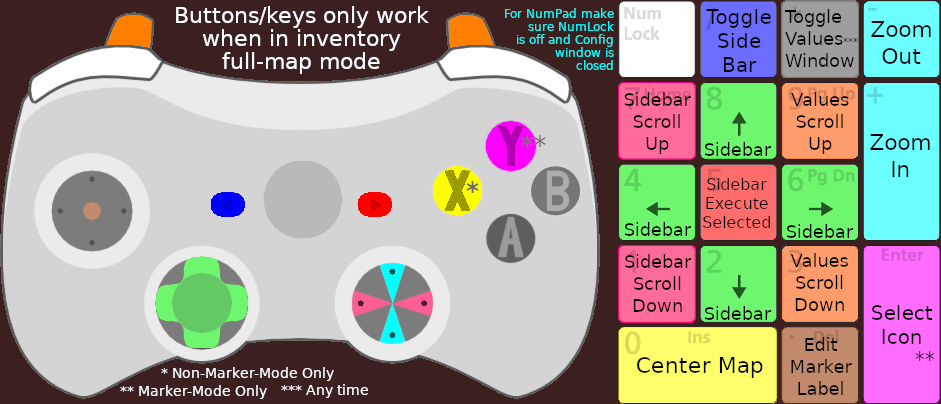
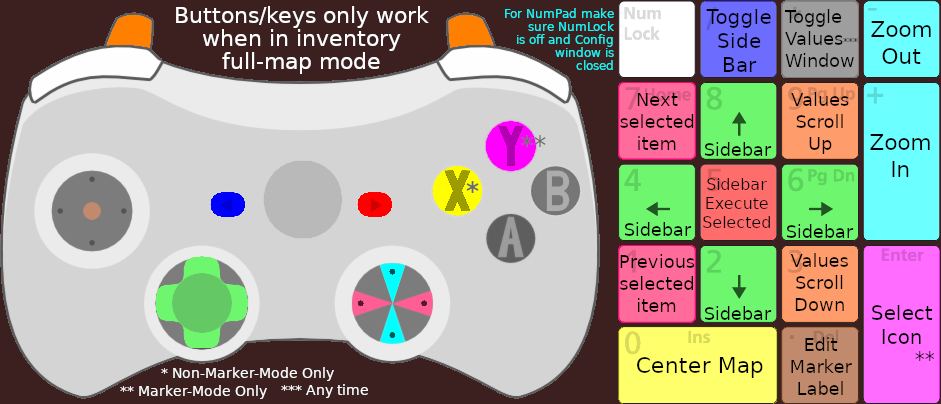
Added item stack selection
Added item stack selection:
	Files: MapControl.cs, Config.cs
	Affects: SideBar.cs, HelpWindow.cs, KeyMappings.png

HelpWindow.cs: Made internal instead of private since I need to find out if it’s being displayed

Changed region(s): [[0.6472, 0.6238, 0.7396, 0.7723], [0.6472, 0.2376, 0.7396, 0.3861]]

diff --git a/PharloomAtlas/MapControl.cs b/PharloomAtlas/MapControl.cs
@@ -1,5 +1,6 @@
 using SilkDev;
 using SilkDev.DevInput.Mouse;
+using System.Collections.Generic;
 using System.Linq;
 using System.Reflection;
 using System.Runtime.CompilerServices;
@@ -26,6 +27,7 @@ public class MapControl : SilkDev.Windows.Window
 	public bool IsMapOpened		=> MapState!=MapStateEnum.Closed;
 
 	//Private members
+	private static readonly Stack<Item> MoveBackStack=[], MoveForwardStack=[];
 	internal MarkerLabels MarkerLabels=null!;
 	private readonly HornetIconAnimators HornetIconAnimators=new();
 	private bool SideBarWasOpen=false, SearchWasOpen=false;
@@ -222,7 +224,7 @@ public class MapControl : SilkDev.Windows.Window
 
 	//Find the closest vector to the map position within a radius, returning its item
 	public record struct VItem<T>(Vector2 Pos, T Item) where T: class;
-	public T? FindClosestVector<T>(System.Collections.Generic.IEnumerable<VItem<T>> VList, Vector2 PosOnMap, float ItemRadius, float SelectionRadius) where T: class
+	public T? FindClosestVector<T>(IEnumerable<VItem<T>> VList, Vector2 PosOnMap, float ItemRadius, float SelectionRadius) where T: class
 	{
 		//Find the closest item
 		VItem<T> ClosestVec=default;
@@ -265,6 +267,13 @@ public class MapControl : SilkDev.Windows.Window
 		(false, Direction	.Up					,  1),
 		(false, Direction	.Down				, -1)
 	);
+	private readonly SilkDev.DevInput.InputRepeatDelay<bool> SelectItemStackCheck=new(.25f,
+		(Conf			.Shortcut_SelStack_Next	, true ),
+		(Conf			.Shortcut_SelStack_Prev	, false),
+		(false,Direction.Left					, false),
+		(false,Direction.Right					, true )
+	);
+
 	protected override void OnUpdate()
 	{
 		//Toggling sidebar and centering
@@ -291,6 +300,24 @@ public class MapControl : SilkDev.Windows.Window
 		//Zooming
 		if(ZoomCheck.IsReadyValueVType is float ZoomAmount)
 			ZoomI(ZoomAmount);
+
+		//Item selection stack
+		if(!SideBar.HelpWindow.HasAnyOpen && SelectItemStackCheck.IsReadyValueVType is bool StackDirectionForward)
+			if(StackDirectionForward && MoveForwardStack.Count>0) {
+				Item NewItem=MoveForwardStack.Pop();
+				MoveBackStack.Push(NewItem);
+				SelectAndCenterItemI(NewItem.ID, true);
+			} else if(
+				   !StackDirectionForward
+				&& (
+					   MoveBackStack.Count>1
+					|| (MoveBackStack.Count==1 && SelectedItem==null)
+				)
+			) {
+				if(SelectedItem!=null)
+					MoveForwardStack.Push(MoveBackStack.Pop());
+				SelectAndCenterItemI(MoveBackStack.Peek().ID, true);
+			}
 
 		HornetIconAnimators.Run();
 	}
@@ -387,7 +414,7 @@ public class MapControl : SilkDev.Windows.Window
 
 	//Selects a new item
 	public  void SelectItem (Item? NewSelectItem) => Misc.IFF(GameMap!=null, () => SelectItemI(NewSelectItem));
-	private void SelectItemI(Item? NewSelectItem)
+	private void SelectItemI(Item? NewSelectItem, bool IsStackMove=false)
 	{
 		//If the same item, nothing to do
 		if(SelectedItem==NewSelectItem)
@@ -403,15 +430,21 @@ public class MapControl : SilkDev.Windows.Window
 		SelectedItem=NewSelectItem;
 		SideBar.OnNewIconSelected();
 		SideBar.Visible=true;
+
+		//Add to stack
+		if(!IsStackMove && NewSelectItem!=null) {
+			MoveBackStack.Push(NewSelectItem);
+			MoveForwardStack.Clear();
+		}
 	}
 
 	//Center over and select an item by its ID
 	public   void SelectAndCenterItem (int ItemID) => Misc.IFF(GameMap!=null, () => SelectAndCenterItemI(ItemID));
-	internal void SelectAndCenterItemI(int ItemID)
+	internal void SelectAndCenterItemI(int ItemID, bool IsStackMove=false)
 	{
 		Item I=DS.Items.Get(ItemID) ?? throw new System.ArgumentOutOfRangeException("ItemID");
 		MapPos=I.Pos;
-		SelectItemI(I);
+		SelectItemI(I, IsStackMove);
 		I.MapIcon?.IconGO?.SetActive(true); //Force the icon to be visible
 	}
 

diff --git a/PharloomAtlas/HelpWindow.cs b/PharloomAtlas/HelpWindow.cs
@@ -11,7 +11,7 @@ namespace PharloomAtlas;
 public partial class SideBar
 {
 	//Displays a help message
-	private class HelpWindow : SilkDev.Windows.PopupMessage
+	internal class HelpWindow : SilkDev.Windows.PopupMessage
 	{
 		private static int NumOpen=0;
 		private static Texture2D? ControllerLayout;
@@ -103,7 +103,7 @@ public partial class SideBar
 
 			//Draw the message
 			ScrollPosition=GUILayout.BeginScrollView(ScrollPosition, ScrollStyle, GUILayout.ExpandWidth(true), GUILayout.ExpandHeight(true));
-			GUILayout.Label($"<color=#FF6C9C><size=20>{TSan("Scroll this window with Sidebar Scroll Up/Down")}</size></color>", CenterRichText);
+			GUILayout.Label($"<color=#FF6C9C><size=20>{TSan("Scroll this window with selected-icon-stack next/previous")}</size></color>", CenterRichText);
 			GUILayout.Label(Message, LabelStyle);
 			GUILayout.EndScrollView();
 
@@ -113,8 +113,8 @@ public partial class SideBar
 		//Scroll up/down the help info
 		private const float MoreOftenMultiplier=4;
 		private readonly SilkDev.DevInput.InputRepeatDelay<int> WinScrollCheck=new(.075f/MoreOftenMultiplier,
-			(Config.C		.Shortcut_SB_ScrollUp	, -1),
-			(Config.C		.Shortcut_SB_ScrollDown	,  1),
+			(Config.C		.Shortcut_SelStack_Next , -1),
+			(Config.C		.Shortcut_SelStack_Prev ,  1),
 			(false,Direction.Left					, -1),
 			(false,Direction.Right					,  1)
 		);
@@ -135,8 +135,8 @@ public partial class SideBar
 
 		//Do not close from scroll buttons
 		protected override bool BlockClose =>
-			   Config.C.Shortcut_SB_ScrollUp.IsPressed()
-			|| Config.C.Shortcut_SB_ScrollDown.IsPressed()
+			   Config.C.Shortcut_SelStack_Next.IsPressed()
+			|| Config.C.Shortcut_SelStack_Prev.IsPressed()
 			|| ActiveDevice.RightStick.HasChanged;
 
 		//Translation

diff --git a/PharloomAtlas/SideBar.cs b/PharloomAtlas/SideBar.cs
@@ -214,7 +214,7 @@ public partial class SideBar : Window
 
 	//Handle key presses
 	private static InControl.InputDevice AD => ActiveDevice;
-	public  enum KRType { X=0, Y, Scroll, NUM_ENUMS }
+	public  enum KRType { X=0, Y, NUM_ENUMS }
 	private record struct KeyResults(KRType Type, int Value);
 	private readonly SilkDev.DevInput.InputRepeatDelay<KeyResults> KeysCheck=new(.075f,
 		(Conf			.Shortcut_SB_Down		, new(KRType.Y,		 1)),
@@ -224,11 +224,7 @@ public partial class SideBar : Window
 		(Conf			.Shortcut_SB_Right		, new(KRType.X,		 1)),
 		(Conf			.Shortcut_SB_Left		, new(KRType.X,		-1)),
 		(static AD => AD.DPadLeft				, new(KRType.X,		-1)),
-		(static AD => AD.DPadRight				, new(KRType.X,		 1)),
-		(Conf			.Shortcut_SB_ScrollUp	, new(KRType.Scroll,-1)),
-		(Conf			.Shortcut_SB_ScrollDown	, new(KRType.Scroll, 1)),
-		(false,Direction.Left					, new(KRType.Scroll,-1)),
-		(false,Direction.Right					, new(KRType.Scroll, 1))
+		(static AD => AD.DPadRight				, new(KRType.X,		 1))
 	);
 	protected override void OnUpdate()
 	{
@@ -251,8 +247,6 @@ public partial class SideBar : Window
 			CurrentSection.MoveVer(TempVal<0);
 		if((TempVal=KRTypes[(int)KRType.X])!=0)
 			CurrentSection.MoveHor(TempVal<0);
-		if(!HelpWindow.HasAnyOpen && (TempVal=KRTypes[(int)KRType.Scroll])!=0)
-			ScrollPosition.y=Mathf.Max(ScrollPosition.y+TempVal*30, 0);
 	}
 
 	//Called when a new icon is selected

diff --git a/PharloomAtlas/Config.cs b/PharloomAtlas/Config.cs
@@ -16,7 +16,7 @@ public class Config
 	public readonly ConfigEntryT<float> ZoomSpeed, PanSpeed, MarkerPanSpeed, IconSize, QueryTime_PersistentObj, QueryTime_PlayerData, HornetHighlightSpeed, HornetRainbow2WaitTime, HornetRainbow2RunTime, HornetGrowingMax, HornetRevolvingDist, HornetRainbow1Scale;
 	public readonly ConfigEntryT<int> SideBarWidth;
 	public readonly ConfigEntryTKeyboardShortcut Shortcut_ZoomIn, Shortcut_ZoomOut, Shortcut_CenterOverChar, Shortcut_ToggleSideBar, Shortcut_EditMarkerLabel, Shortcut_SaveValueWindow, Shortcut_Val_ScrollUp, Shortcut_Val_ScrollDown;
-	public readonly ConfigEntryTKeyboardShortcut Shortcut_SB_Up, Shortcut_SB_Down, Shortcut_SB_Left, Shortcut_SB_Right, Shortcut_SB_ToggleItem, Shortcut_SB_ScrollUp, Shortcut_SB_ScrollDown, Shortcut_SB_SelectIcon;
+	public readonly ConfigEntryTKeyboardShortcut Shortcut_SB_Up, Shortcut_SB_Down, Shortcut_SB_Left, Shortcut_SB_Right, Shortcut_SB_ToggleItem, Shortcut_SelStack_Next, Shortcut_SelStack_Prev, Shortcut_SB_SelectIcon;
 	public readonly ConfigEntryT<Color> Color_SideBar_Background, Color_SideBar_Interface, Color_SideBar_Highlight, Color_MarkerLabelText, Color_MarkerLabelBG, Color_FoundIcon, Color_Link, Color_LinkHover;
 	public readonly ConfigEntryT<Rect> Rect_SaveValuesWindow, Rect_SearchWindow;
 	public readonly DynamicEnumConfig IconSet;
@@ -61,6 +61,8 @@ public class Config
 		HornetRainbow1Scale		=Con.Bind(Title, "Hornet marker: Rainbow 1: Scale",			.5f, AVR(.1f, 1f, "The zoom-scale of the 256 color gradient texture. This basically dictates how many color bands you can see at a time (higher=more).", IsAdvanced));
 		HornetRainbow2WaitTime	=Con.Bind(Title, "Hornet marker: Rainbow 2: Wait time",		6f, AVR(0, 10f, "The time in between rainbow 2 effects", IsAdvanced));
 		HornetRainbow2RunTime	=Con.Bind(Title, "Hornet marker: Rainbow 2: Run time",		1.2f, AVR(0.5f, 5f, "The time the rainbow 2 effects run", IsAdvanced));
+		Shortcut_SelStack_Next	=Con.Bind(Title, "Next item in selection stack",			new KeyboardShortcut(KeyCode.Keypad7));
+		Shortcut_SelStack_Prev	=Con.Bind(Title, "Previous item in selection stack",		new KeyboardShortcut(KeyCode.Keypad1));
 
 		Title="Map Controls";
 		ZoomSpeed				=Con.Bind(Title, "Zoom Speed",								1.03f, AVR(1.01f, 1.5f));
@@ -94,8 +96,6 @@ public class Config
 		Shortcut_SB_Right		=Con.Bind(Title, "Sidebar navigation: Right",				new KeyboardShortcut(KeyCode.Keypad6));
 		Shortcut_SB_ToggleItem	=Con.Bind(Title, "Shortcut Key: Execute selected item",		new KeyboardShortcut(KeyCode.Keypad5), "Executes the selected button/group/category on the sidebar.");
 		Shortcut_SB_SelectIcon	=Con.Bind(Title, "Shortcut Key: Select icon",				new KeyboardShortcut(KeyCode.KeypadEnter), "When the sidebar and marker modes are active, pressing this will ‘select’ the icon you are over");
-		Shortcut_SB_ScrollUp	=Con.Bind(Title, "Shortcut Key: Scroll categories up",		new KeyboardShortcut(KeyCode.Keypad7));
-		Shortcut_SB_ScrollDown	=Con.Bind(Title, "Shortcut Key: Scroll categories down",	new KeyboardShortcut(KeyCode.Keypad1));
 
 		Title="Saved Value Window";
 		Shortcut_SaveValueWindow=Con.Bind(Title, "Shortcut Key: Show/hide the window",		new KeyboardShortcut(KeyCode.KeypadMultiply), "Toggle the value window. See help or mod page for more information.");